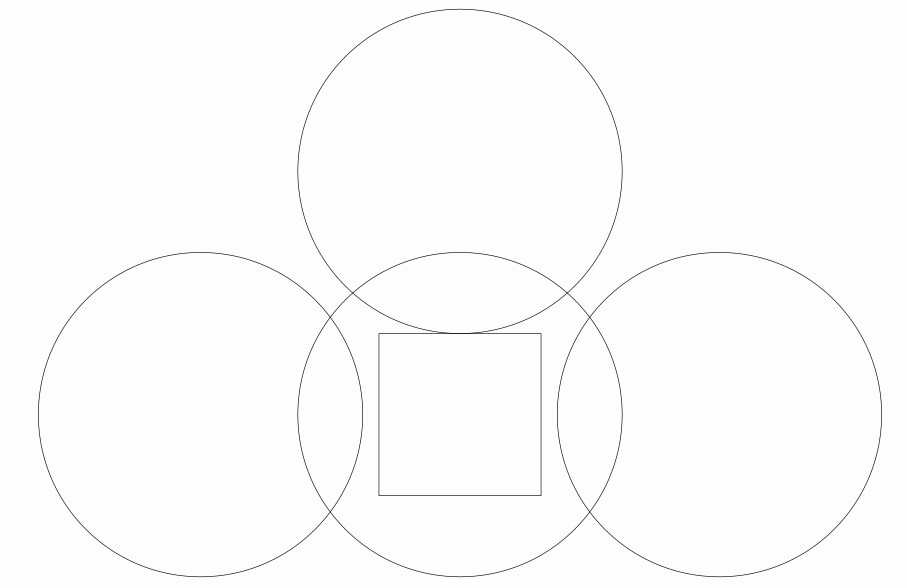
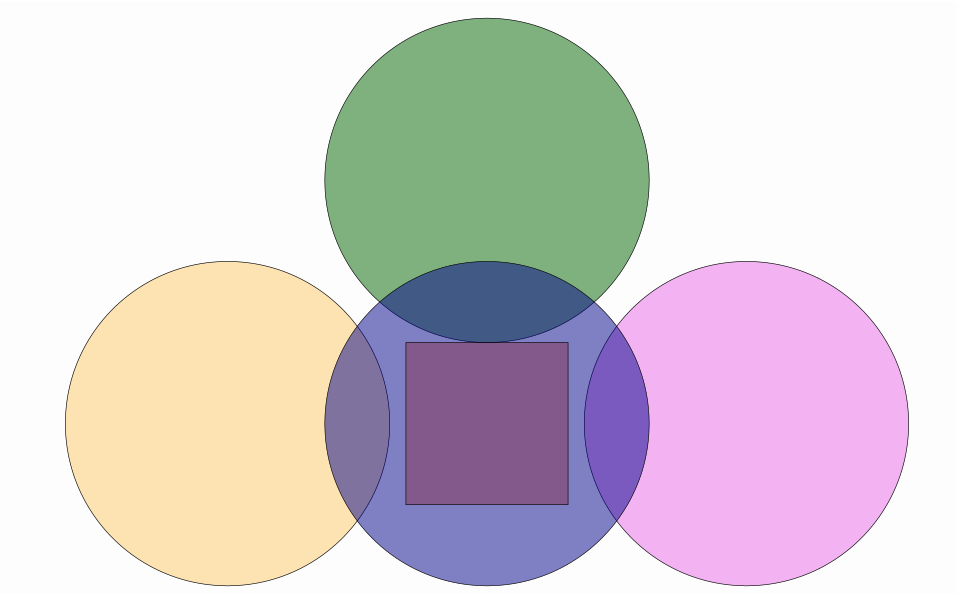
Added axes status

diff --git a/manual/04_Transforming/TransformingObjects.md b/manual/04_Transforming/TransformingObjects.md
@@ -30,16 +30,16 @@ Shape r=Shape.regularPolygon(5).moveTo(3,3);//A pentagon, with its bounding box 
 The `StackTo` command works in a similar way that `putAt`, but allows to position an object relative to another one. For example, the following code creates 4 circles, and stacks them into a square in different ways:
 
 ``` java
-Shape c1=Shape.circle();
-Shape c2=c1.copy();
-Shape c3=c1.copy();
-Shape c4=c1.copy();
-Shape sq=Shape.square();
-c1.stackTo(sq,Anchor.Type.LEFT,.1);//Stacks circle to the left of the square, with a gap of .1 units
-c2.stackTo(sq,Anchor.Type.RIGHT,.1);//Stacks circle to the right of the square, with a gap of .1 units
-c3.stackTo(sq,Anchor.Type.UPPER);//Stacks circle to the upper side of the square, with no gap
-c4.stackTo(sq,Anchor.Type.BY_CENTER);//Stacks circle center-to-center with the square
-add(c1,c2,c3,c4,sq);//Add everything to the scene
+Shape c1 = Shape.circle().fillColor("orange").fillAlpha(.3);
+Shape c2 = c1.copy().fillColor("violet").fillAlpha(.6);
+Shape c3 = c1.copy().fillColor("darkgreen").fillAlpha(.5);
+Shape c4 = c1.copy().fillColor("darkblue").fillAlpha(.5);
+Shape sq = Shape.square().fillColor("darkred").fillAlpha(.3);
+c1.stackTo(sq, Anchor.Type.LEFT, .1);//Stacks circle to the left of the square, with a gap of .1 units
+c2.stackTo(sq, Anchor.Type.RIGHT, .1);//Stacks circle to the right of the square, with a gap of .1 units
+c3.stackTo(sq, Anchor.Type.UPPER);//Stacks circle to the upper side of the square, with no gap
+c4.stackTo(sq, Anchor.Type.BY_CENTER);//Stacks circle center-to-center with the square
+add(c1, c2, c3, c4, sq);//Add everything to the scene
 camera.adjustToAllObjects(); //Adjust camera, so that everyone gets into the photo
 waitSeconds(5);//That is, smile for the screenshot!
 ```
@@ -48,7 +48,7 @@ which produces the following image:
 
 <img src="02_stackToExample.png" alt="02 stackToExample" style="zoom:50%;" />
 
-You’ll notice two new methods here: The `copy()` method returns a copy of the object, and the `camera.adjustToAllObjects()` does as it says, rescales the camera so that everything fits into view.
+You’ll notice two new methods here: The `copy()` method returns a copy of the object, and the `camera.adjustToAllObjects()` does as it says, rescales the camera so that everything fits into view.  The `fillColor` and `fillAlpha` sets the filling of the object. 
 
 As in the `putAt` method, a third parameter `gap` is allowed to add a given gap between the objects.
 
@@ -196,8 +196,8 @@ Shape circ = Shape.circle().scale(.5).shift(.5, .5).fillColor("orange").fillAlph
 Point A = Point.at(0, 0).drawColor("darkblue").layer(1); 
 Point B = Point.at(1, 0).drawColor("darkblue").layer(1); 
 Point C = Point.at(0, 1).drawColor("darkblue").layer(1); 
-Point D = Point.at(1.5, -.5).dotStyle(DotSyle.PLUS).thickness(1).drawColor("darkgreen");
-Point E = Point.at(2, 0).dotStyle(DotSyle.PLUS).thickness(1).drawColor("darkgreen");
+Point D = Point.at(1.5, -.5).dotStyle(DotSyle.PLUS).thickness(2).drawColor("darkgreen");
+Point E = Point.at(2, 0).dotStyle(DotSyle.PLUS).thickness(2).drawColor("darkgreen");
 Point F = Point.at(1.75, .75).dotStyle(DotSyle.PLUS).thickness(2).drawColor("darkgreen");
 add(sq, circ, A, B, C, D, E, F);
 

diff --git a/manual/06_AdvancedTopics/AdvancedTopics.md b/manual/06_AdvancedTopics/AdvancedTopics.md
@@ -252,12 +252,15 @@ Note that when the rotation is finished subsequent calls to `processAnimation` h
 
 Not all `MathObject` and `Animation` combinations are compatible. Below is a table that shows, at the current version of the library, what you can and cannot do:
 
-| MathObject      | Affine transforms related: Shift, scale, rotate , grow in, shrink out, highlight | ShowCreation animation | Transform animation                           |
-| --------------- | ------------------------------------------------------------ | ---------------------- | --------------------------------------------- |
-| Point           | Yes                                                          | No (use fade in)       | No                                            |
-| Shape           | Yes                                                          | Yes                    | Yes                                           |
-| Line            | Yes                                                          | Yes                    | Yes                                           |
-| LaTeXMathObject | Yes                                                          | Yes                    | Yes                                           |
-| Arrow2D         | Yes                                                          | Yes                    | No (use homothecy transform)                  |
-| Delimiter       | No (you have the transform the anchor points instead)        | Yes                    | No (use homothecy transform in anchor points) |
+| MathObject      | Affine transforms related: Shift, scale, rotate , grow in, shrink out, highlight | ShowCreation animation | Transform animation                                          |
+| --------------- | ------------------------------------------------------------ | ---------------------- | ------------------------------------------------------------ |
+| Point           | Yes                                                          | No (use fade in)       | No                                                           |
+| Shape           | Yes                                                          | Yes                    | Yes                                                          |
+| Line            | Yes                                                          | Yes                    | Yes                                                          |
+| Axes            | No                                                           | No (work in progress)  | No                                                           |
+| LaTeXMathObject | Yes                                                          | Yes                    | Yes (also you can use the specialized `TransformMathExpression` method) |
+| Arrow2D         | Yes                                                          | Yes                    | No (use homothecy transform)                                 |
+| Delimiter       | No (you have the transform the anchor points instead)        | Yes                    | No (use homothecy transform in anchor points)                |
+
+
 

diff --git a/Gallery/Gallery.md b/Gallery/Gallery.md
@@ -86,7 +86,7 @@ public void runSketch() throws Exception {
         add(taylor[n-1].copy().thickness(1).drawColor(JMColor.GRAY));
         Transform transformFunction = new Transform(2, taylor[n-1], taylor[n]);
         Transform transformText=new Transform(2, texts[n-1], texts[n]);
-        playAnim(transformFunction,transformText);
+        playAnimation(transformFunction,transformText);
     }
     waitSeconds(5);
 }
@@ -300,7 +300,7 @@ This example shows the use of anonymous updaters to perform commands in the upda
         Animation rot = Commands.rotate(10, -2 * PI, circleSmall).setUseObjectState(false);
         mov.setLambda(t -> t);//Uniform movement
         rot.setLambda(t -> t);//Uniform rotation
-        playAnim(mov, rot);
+        playAnimation(mov, rot);
 ```
 
 Here you have a GIF from the movie generated:
@@ -311,7 +311,7 @@ Here you have a GIF from the movie generated:
 
 ## The Clock
 
-This example shows how combining simple animations we can have complex ones. The total animation is done with a single `playAnim` call.
+This example shows how combining simple animations we can have complex ones. The total animation is done with a single `playAnimation` call.
 
 ```java
         double runtime = 5;
@@ -336,7 +336,7 @@ This example shows how combining simple animations we can have complex ones. The
             Concatenate con = new Concatenate(new WaitAnimation(waitTime), ag);
             gr.add(con);
         }
-        playAnim(gr);
+        playAnimation(gr);
         waitSeconds(3);
 ```
 
